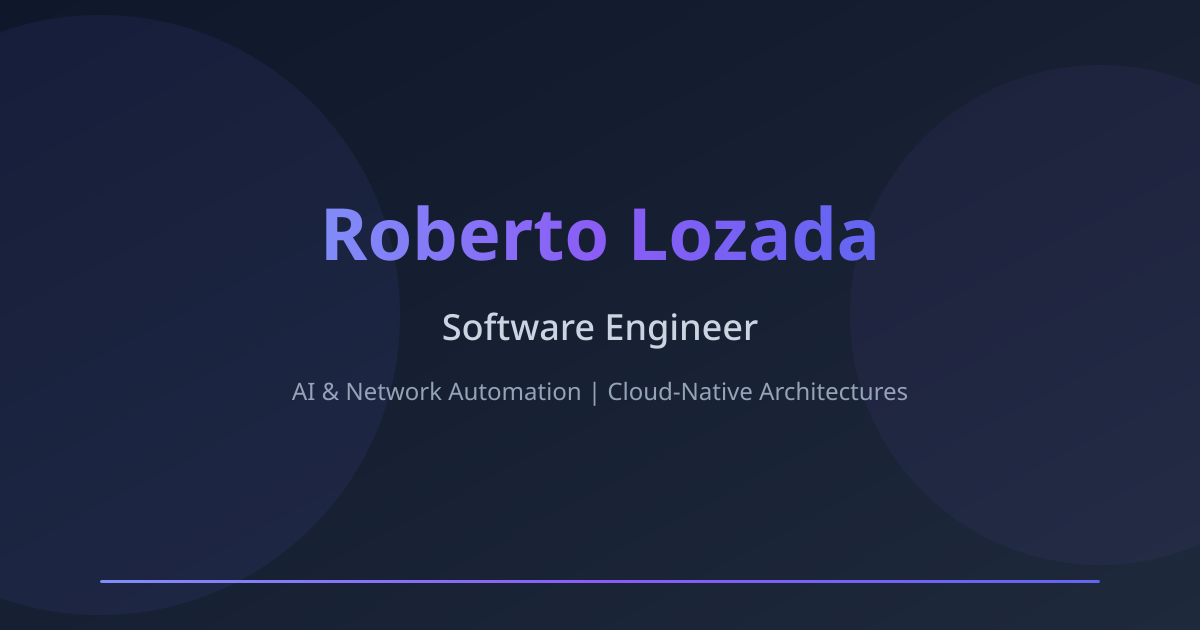
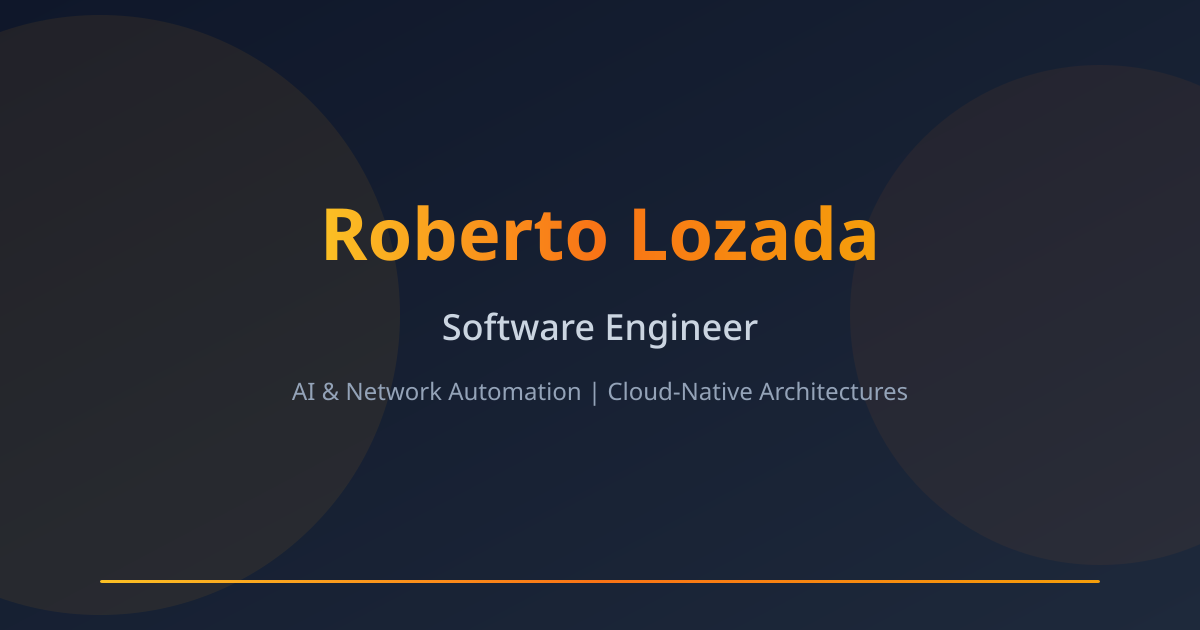
Switch accent color from violet to amber

Changed region(s): [[0.2467, 0.3317, 0.74, 0.4222], [0.0925, 0.9048, 0.925, 0.9349]]

diff --git a/src/app.css b/src/app.css
@@ -27,8 +27,8 @@
 		--orb-opacity-1: 0.12;
 		--orb-opacity-2: 0.08;
 		--orb-opacity-3: 0.06;
-		--glow-color: rgba(99, 102, 241, 0.04);
-		--prose-code-bg: rgba(99, 102, 241, 0.08);
+		--glow-color: rgba(245, 158, 11, 0.04);
+		--prose-code-bg: rgba(245, 158, 11, 0.08);
 		--prose-pre-bg: #1e293b;
 		--skip-link-bg: rgba(248, 250, 252, 0.95);
 		--back-to-top-bg: rgba(241, 245, 249, 0.85);
@@ -59,8 +59,8 @@
 		--orb-opacity-1: 0.20;
 		--orb-opacity-2: 0.15;
 		--orb-opacity-3: 0.10;
-		--glow-color: rgba(99, 102, 241, 0.06);
-		--prose-code-bg: rgba(99, 102, 241, 0.1);
+		--glow-color: rgba(245, 158, 11, 0.06);
+		--prose-code-bg: rgba(245, 158, 11, 0.1);
 		--prose-pre-bg: #0d1117;
 		--skip-link-bg: rgba(30, 41, 59, 0.95);
 		--back-to-top-bg: rgba(30, 41, 59, 0.8);
@@ -82,7 +82,7 @@
 		@apply fixed left-4 top-4 z-[100] rounded-lg px-4 py-2 text-sm font-medium text-heading;
 		background: var(--skip-link-bg);
 		backdrop-filter: blur(12px);
-		border: 1px solid rgba(99, 102, 241, 0.3);
+		border: 1px solid rgba(245, 158, 11, 0.3);
 		transform: translateY(-200%);
 		transition: transform 0.2s ease;
 	}
@@ -108,11 +108,11 @@
 @layer components {
 	.btn-primary {
 		@apply inline-block px-6 py-3 rounded-lg font-medium transition-all duration-300;
-		background: linear-gradient(135deg, #6366f1, #8b5cf6);
+		background: linear-gradient(135deg, #f59e0b, #f97316);
 		color: white;
 	}
 	.btn-primary:hover {
-		box-shadow: 0 0 20px rgba(99, 102, 241, 0.4), 0 0 40px rgba(139, 92, 246, 0.2);
+		box-shadow: 0 0 20px rgba(245, 158, 11, 0.4), 0 0 40px rgba(249, 115, 22, 0.2);
 		transform: translateY(-1px);
 	}
 

diff --git a/src/routes/+layout.svelte b/src/routes/+layout.svelte
@@ -46,15 +46,15 @@
 	<div class="pointer-events-none fixed inset-0 overflow-hidden" aria-hidden="true">
 		<div
 			class="absolute -left-32 top-1/4 h-96 w-96 rounded-full blur-[120px]"
-			style="background: radial-gradient(circle, #6366f1, transparent); opacity: var(--orb-opacity-1)"
+			style="background: radial-gradient(circle, #f59e0b, transparent); opacity: var(--orb-opacity-1)"
 		></div>
 		<div
 			class="absolute -right-32 top-2/3 h-80 w-80 rounded-full blur-[120px]"
-			style="background: radial-gradient(circle, #8b5cf6, transparent); opacity: var(--orb-opacity-2)"
+			style="background: radial-gradient(circle, #f97316, transparent); opacity: var(--orb-opacity-2)"
 		></div>
 		<div
 			class="absolute left-1/2 top-0 h-72 w-72 -translate-x-1/2 rounded-full blur-[120px]"
-			style="background: radial-gradient(circle, #818cf8, transparent); opacity: var(--orb-opacity-3)"
+			style="background: radial-gradient(circle, #fbbf24, transparent); opacity: var(--orb-opacity-3)"
 		></div>
 	</div>
 

diff --git a/src/lib/data/skillIcons.ts b/src/lib/data/skillIcons.ts
@@ -71,7 +71,7 @@ export const skillIcons: Record<string, [string, string]> = {
 	],
 	'Clean Architecture': [
 		'M12 2C6.48 2 2 6.48 2 12s4.48 10 10 10 10-4.48 10-10S17.52 2 12 2zm0 2c4.42 0 8 3.58 8 8s-3.58 8-8 8-8-3.58-8-8 3.58-8 8-8zm0 2a6 6 0 1 0 0 12 6 6 0 0 0 0-12zm0 2a4 4 0 1 1 0 8 4 4 0 0 1 0-8zm0 2a2 2 0 1 0 0 4 2 2 0 0 0 0-4z',
-		'#6366F1'
+		'#f59e0b'
 	],
 	'.NET': [
 		'M24 8.77h-2.468v7.565h-1.425V8.77h-2.462V7.53H24zm-6.852 7.565h-4.821V7.53h4.63v1.24h-3.205v2.494h2.953v1.234h-2.953v2.604h3.396zm-6.708 0H8.882L4.78 9.863a3.8 3.8 0 0 1-.36-.958h-.048q.07.663.07 2.01v5.42H3.157V7.53h1.659l3.965 6.32q.282.453.408.835h.036q-.084-.785-.084-1.933V7.53h1.299zM0 20.7v-1.612c.1.03.225.058.372.084a3 3 0 0 0 .45.038c.525 0 .903-.323 1.134-.97l.234-.63L0 11.8h1.56l1.136 4.192c.063.21.107.447.131.707h.036c.027-.198.08-.446.162-.744l1.17-4.155h1.417l-2.318 6.67c-.274.787-.55 1.333-.828 1.64-.279.308-.675.462-1.19.462A3 3 0 0 1 .68 20.5z',

diff --git a/src/lib/components/ThemeToggle.svelte b/src/lib/components/ThemeToggle.svelte
@@ -69,7 +69,7 @@
 	}
 
 	.toggle-track.dark {
-		background: linear-gradient(135deg, #6366f1, #4f46e5);
+		background: linear-gradient(135deg, #1e293b, #0f172a);
 		border-color: rgba(255, 255, 255, 0.1);
 	}
 
@@ -90,7 +90,7 @@
 
 	.toggle-thumb.dark {
 		transform: translateX(22px);
-		background: #1e1b4b;
+		background: #1e293b;
 	}
 
 	.icon {
@@ -112,6 +112,6 @@
 	}
 
 	.moon {
-		color: #c4b5fd;
+		color: #94a3b8;
 	}
 </style>

diff --git a/src/routes/+error.svelte b/src/routes/+error.svelte
@@ -8,7 +8,7 @@
 		<!-- Large 404 with animated gradient -->
 		<h1
 			class="mb-4 font-heading text-[8rem] font-bold leading-none md:text-[10rem]"
-			style="background: linear-gradient(135deg, #6366f1, #8b5cf6, #818cf8, #6366f1);
+			style="background: linear-gradient(135deg, #f59e0b, #f97316, #fbbf24, #f59e0b);
 				background-size: 300% 300%;
 				animation: gradientMove 6s ease infinite;
 				-webkit-background-clip: text;

diff --git a/tailwind.config.js b/tailwind.config.js
@@ -9,10 +9,10 @@ export default {
 				surface: 'var(--color-surface)',
 				'surface-elevated': 'var(--color-surface-elevated)',
 				accent: {
-					DEFAULT: '#6366f1',
-					light: '#818cf8'
+					DEFAULT: '#f59e0b',
+					light: '#fbbf24'
 				},
-				violet: '#8b5cf6',
+				violet: '#f97316',
 				heading: 'var(--color-heading)',
 				body: 'var(--color-body)',
 				muted: 'var(--color-muted)'

diff --git a/src/lib/components/BackToTop.svelte b/src/lib/components/BackToTop.svelte
@@ -36,8 +36,8 @@
 		box-shadow: 0 4px 16px var(--back-to-top-shadow);
 	}
 	button:hover {
-		box-shadow: 0 4px 20px rgba(99, 102, 241, 0.2);
-		border-color: rgba(99, 102, 241, 0.3) !important;
+		box-shadow: 0 4px 20px rgba(245, 158, 11, 0.2);
+		border-color: rgba(245, 158, 11, 0.3) !important;
 	}
 	@keyframes fadeInUp {
 		from {

diff --git a/src/lib/components/SkillBadge.svelte b/src/lib/components/SkillBadge.svelte
@@ -28,6 +28,6 @@
 
 <style>
 	span:hover {
-		box-shadow: 0 0 12px rgba(99, 102, 241, 0.15);
+		box-shadow: 0 0 12px rgba(245, 158, 11, 0.15);
 	}
 </style>
